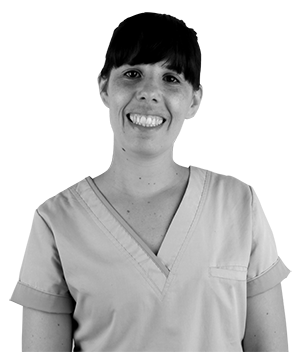
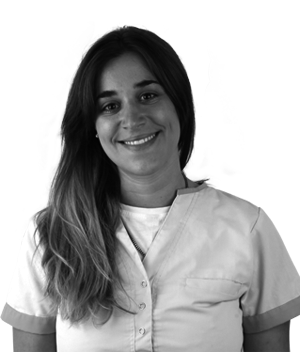
agrego faltante y modifico css

diff --git a/index.html b/index.html
@@ -120,7 +120,11 @@
 							<img class="img-responsive fotosTeam blackAndWhite" src="images/staff/01gris.png" style="display: inline;">
 							<img class="img-responsive fotosTeam color" src="images/staff/01.png" style="display: none;">
 						</div>
-						<div class="nordent-staff" id="foto5" data-names="Ezequiel Apparthie" data-whathedo="Ortodoncia y Ortopedia <br> MP. 14086">
+						<div class="nordent-staff" id="foto5" data-names="Xoana Lujan" data-whathedo="Asistente dental">
+							<img class="img-responsive fotosTeam blackAndWhite" src="images/staff/06gris.png" style="display: inline;">
+							<img class="img-responsive fotosTeam color" src="images/staff/06.png" style="display: none;">
+						</div>
+						<div class="nordent-staff" id="foto6" data-names="Ezequiel Apparthie" data-whathedo="Ortodoncia y Ortopedia <br> MP. 14086">
 							<img class="img-responsive fotosTeam blackAndWhite" src="images/staff/04gris.png" style="display: inline;">
 							<img class="img-responsive fotosTeam color" src="images/staff/04.png" style="display: none;">
 						</div>

diff --git a/css/nordent.css b/css/nordent.css
@@ -119,23 +119,26 @@ h1, h2, h3, h4, h5, h6, .h1, .h2, .h3, .h4, .h5, .h6 {
 }
 
 #foto1 {
-    left: 1%;
+  left: -8%;
 }
 #foto2 {
-    left: 20%;
+    left: 11%;
 }
 #foto3 {
-    left: 38%;
-    z-index: 1;
+  left: 27%;
+  z-index: 5;
 }
 #foto4 {
-    left: 58%;
+  left: 46%;
+  z-index: 4;
 }
 #foto5 {
-    left: 75%;
+  left: 64%;
+  z-index: 3;
 }
 #foto6 {
-    left: 94%;
+  left: 81%;
+  z-index: 2;
 }
 
 .box{
@@ -182,6 +185,9 @@ h1, h2, h3, h4, h5, h6, .h1, .h2, .h3, .h4, .h5, .h6 {
   }
   #staff {
     height: 385px;
+  }
+  .nordent-staff{
+    width: 28%;
   }
   .nordent-titulo{
     margin-top: 40%;
